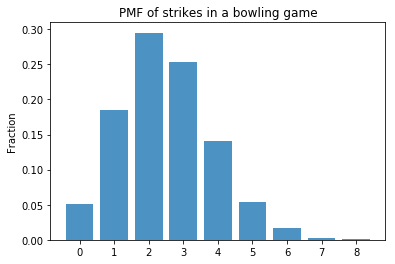
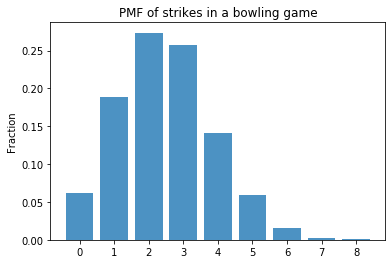
fixed random seed used in solutions for consistency; added line of code to allow matplotlib plots to show inline

diff --git a/README.md b/README.md
@@ -6,9 +6,10 @@ In this lab, you'll practice your newly gained knowledge on the Bernoulli and Bi
 
 ## Objectives
 You will be able to:
-* Apply the formulas for the Binomial and Bernoulli distributions
-* Apply NumPy to randomly generate Binomial and Bernoulli trials
-* Use Matplotlib to generate Binomial and Bernoulli trials with various probabilities
+
+* Apply the formulas for the Binomial and Bernoulli distribution to calculate the probability of a specific event
+* Use `numpy` to randomly generate Binomial and Bernoulli trials
+* Use `matplotlib` to show the output of generated Binomial and Bernoulli trials
 
 ## Apply the formulas for the Binomial and Bernoulli distributions
 
@@ -29,13 +30,6 @@ def factorial(n):
 p_3_strikes = None #answer = 0.2502822
 ```
 
-
-
-
-    0.25028228759765625
-
-
-
 Now, create a function for the Binomial distribution with three arguments $n$, $p$ and $k$ just like in the formula:
 
 $$ \large P(Y=k)= \binom{n}{k} p^k(1-p)^{(n-k)}$$ 
@@ -54,13 +48,6 @@ Validate your previous result by applying your new function.
 # Your code here
 ```
 
-
-
-
-    0.25028228759765625
-
-
-
 Now write a `for` loop along with your function to compute the probability that you have five strikes or more in one game. You'll want to use `numpy` here!
 
 
@@ -75,7 +62,7 @@ Repeat the experiment 5000 times.
 
 
 ```python
-# leave the random seed here 
+# leave the random seed here for reproducibility of results
 np.random.seed(123)
 #
 #
@@ -90,10 +77,6 @@ np.random.seed(123)
 # [ 310  941 1368 1286  707  297   78   11    2]
 ```
 
-    [0 1 2 3 4 5 6 7 8]
-    [ 258  922 1475 1264  706  272   86   13    4]
-
-
 ## Visualize these results
 
 Create the PMF using these empirical results (that is, the proportions based on the values we obtained running the experiment 5000 times).
@@ -107,11 +90,7 @@ import matplotlib.pyplot as plt
 #
 ```
 
-
-![png](index_files/index_13_0.png)
-
-
-You can see that, with a 25% strike hit rate, even when simulating 5000 times, an almost perfect and/or perfect game of 9 and 10 strikes didn't even occur once! If you change your seed, however, you'll see that perfect games will show up occasionally. 
+You should see that, with a 25% strike hit rate, even when simulating 5000 times, an almost perfect and/or perfect game of 9 and 10 strikes didn't even occur once! If you change the random seed, however, you'll see that perfect games will show up occasionally. 
 
 Next, let's create the CDF based on these results. You can use `np.cumsum` to obtain cumulative probabilities.
 
@@ -123,10 +102,6 @@ Next, let's create the CDF based on these results. You can use `np.cumsum` to ob
 #
 #
 ```
-
-
-![png](index_files/index_15_0.png)
-
 
 ## Summary
 
